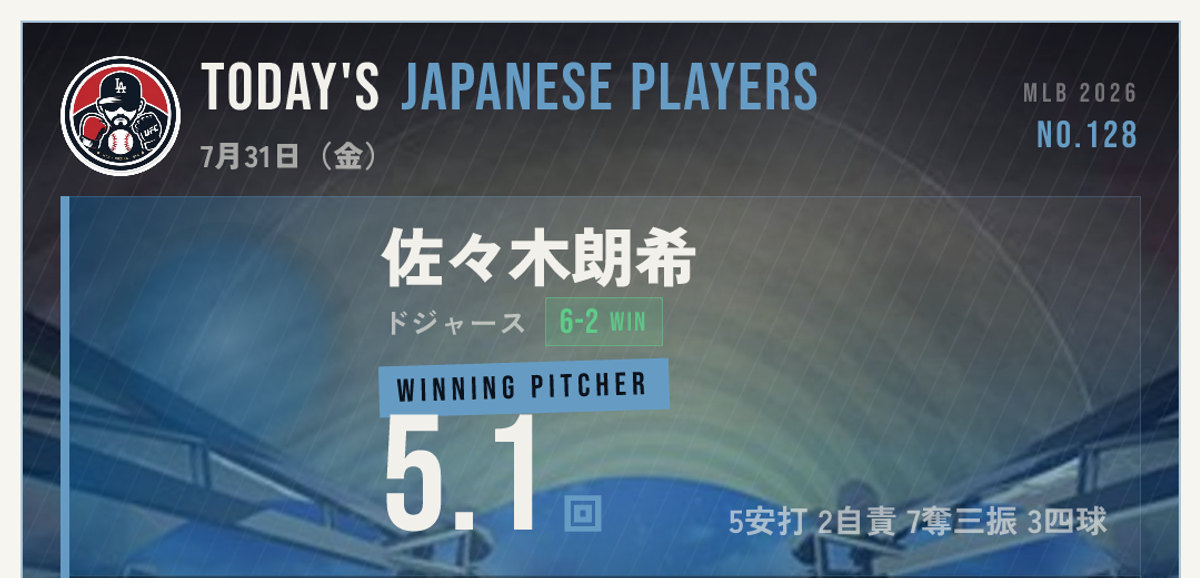
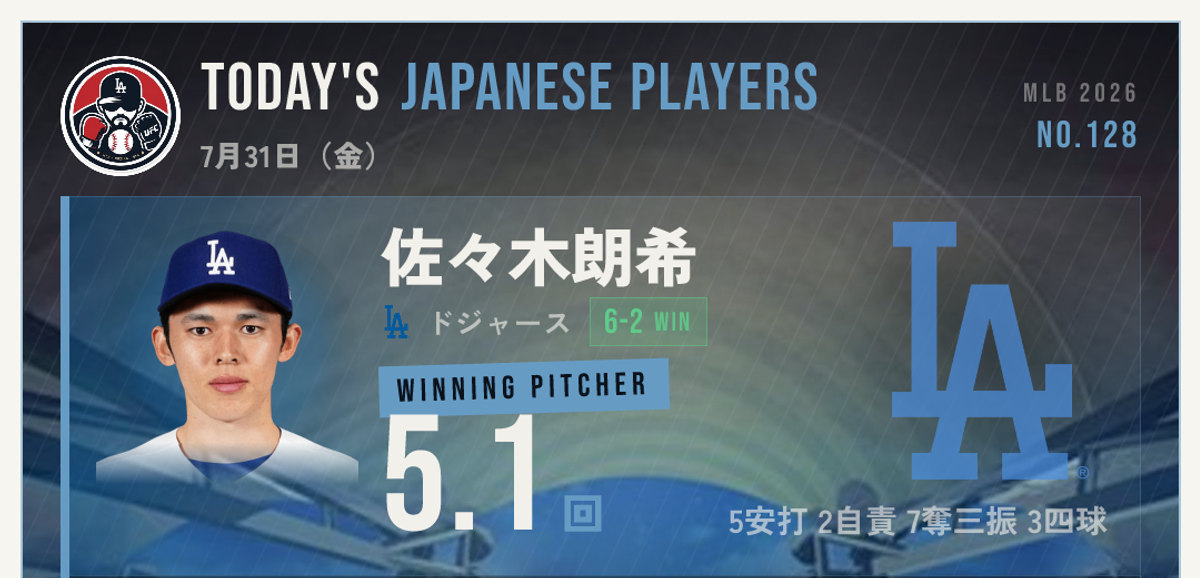
fix(card): きょうの1枚 No.128 の顔写真・ロゴ抜けを修正＋素材欠落を検知する
クラウド無人実行で MLB の CDN に届かず、顔写真5点・ロゴ6点すべてが null に落ちた
まま公開されていた（fetch 失敗を黙って null にして続行する作りだったため誰も気づけない）。

- No.128 のカード／OG を素材つきで再生成
- 素材取得を3回リトライ＋15秒タイムアウトに
- 取れなかった素材を列挙して警告し、既定では終了コード3で止める（--allow-no-art で押し切れる）
- jp-daily スキル Step 2 に「終了コード3の画像はコミットしない」を明記

Changed region(s): [[0.0617, 0.4048, 0.3083, 0.8408], [0.74, 0.3737, 0.925, 0.8408], [0.3083, 0.4983, 0.5858, 0.5917]]

diff --git a/.claude/skills/jp-daily/SKILL.md b/.claude/skills/jp-daily/SKILL.md
@@ -69,6 +69,12 @@ node scripts/jp-daily-card.mjs 2026-07-29 --out public/media/jp-daily-2026-07-30
 
 - 主役の選出・配色・レイアウトはスクリプトが全部やる（人が触らない）。主役は**数字だけ**で決まる。
 - ファイル名は **JST日付**。`_local` はクラウドで永続化されないので出力先は `public/media/`。
+- 🚨 **終了コード3＝素材（顔写真・ロゴ）が取れていない**。MLB の CDN
+  （`img.mlbstatic.com` / `www.mlbstatic.com`）に届かないと、顔もロゴも無い抜け殻のカードが
+  できる（2026-07-31 No.128 で実際に公開してしまった）。**その画像はコミットしない**＝
+  同じコマンドで作り直す。3回やって駄目なら**カードを諦めて記事も出さない**（素材抜きで
+  押し切るのは `--allow-no-art` を明示した時だけ）。出力を目で見ないクラウド実行では、
+  この終了コードが唯一の検知手段。
 - カードのフッターにはドメイン `matome-mlb-kaigai.jp` が焼き込み済み＝転載されるたびに宣伝になる。
 
 **カードの主役（標準出力1行目）＝記事の「②きょうの主役」**。ここを揃えないと、
